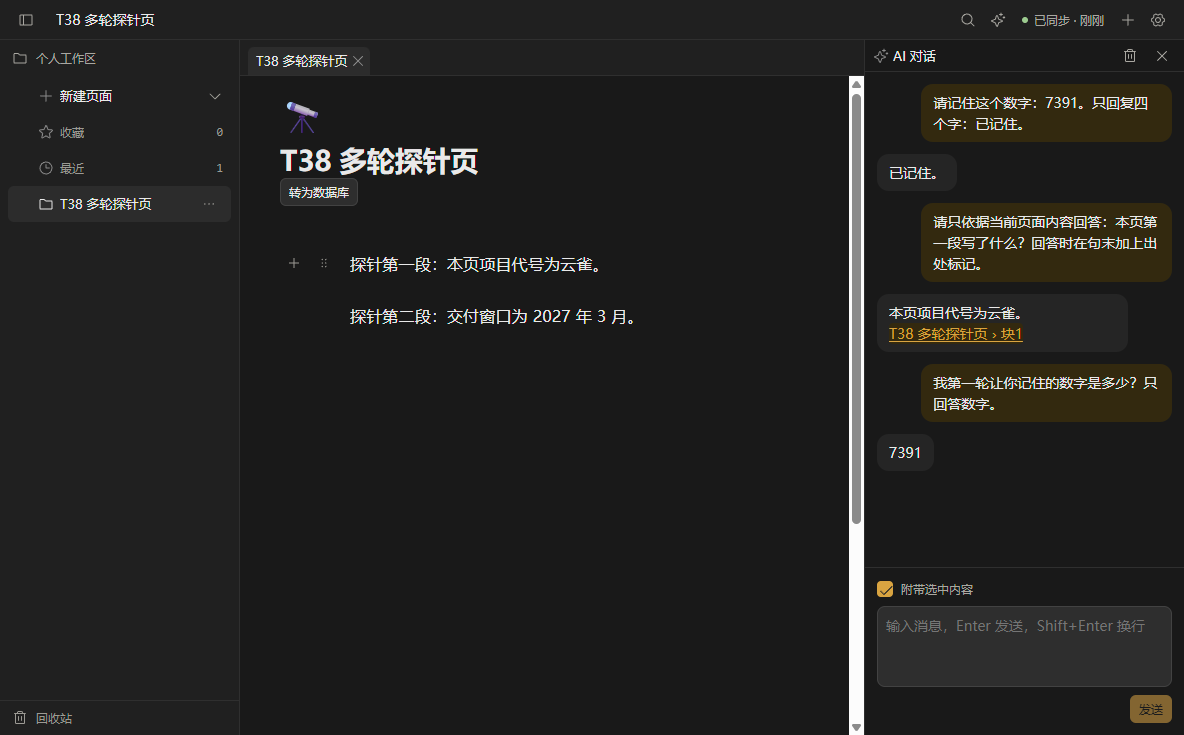
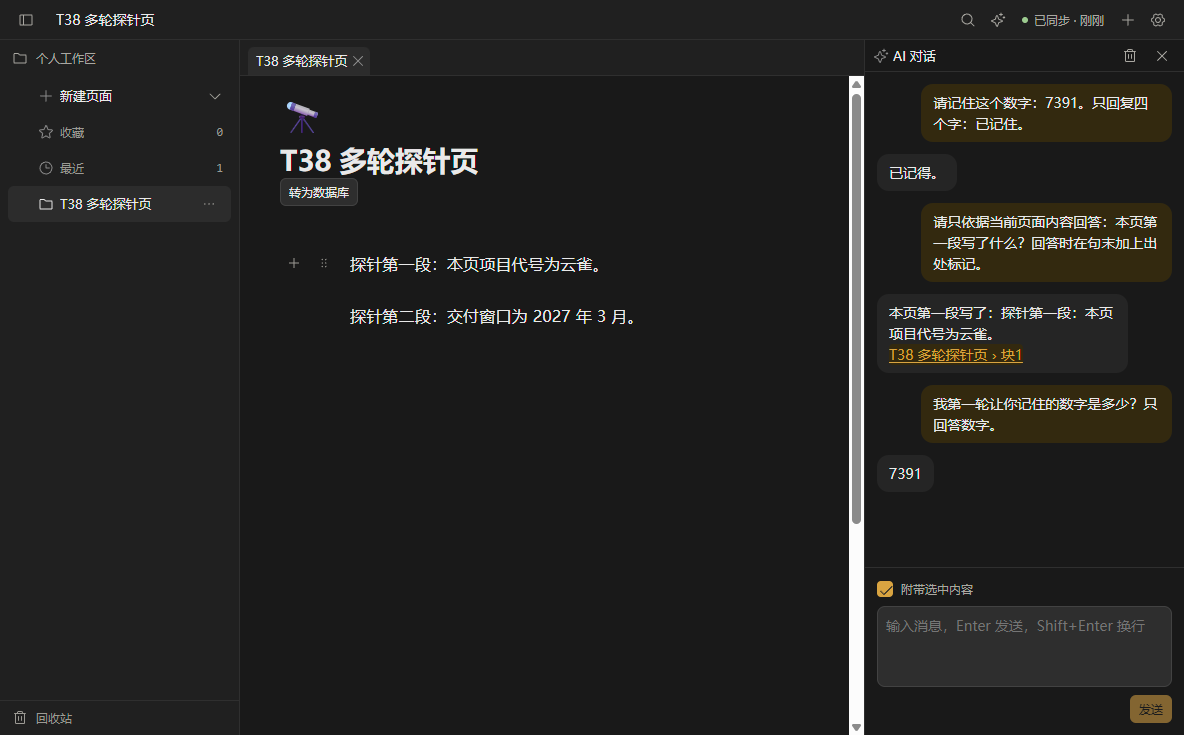
test(t38-01): 多轮探针终跑 21 PASS/0 FAIL（首跑 2 FAIL 查明为探针自身渲染层直连）；登记 T45/T46 评估项
- 四轮：0 IPC(10.4s) / 1 面板(78.6s) / 2 面板含 ⟦#1⟧(5.0s) / 3 面板回 '7391'(9.1s)；main 侧 ai.log 原始行已存档
- 重启后 6 条逐字还原；pageerror=0 consoleError=0；优雅退出；真实数据根 mtime 未变
- 新登记：产品 chat 超时固定 120s（慢模型风险→T46-01）、面板不透出 max_tokens、reasoning_content/finish_reason 不透出（空正文无提示）、多标记/跨页引用未验证
- 诚实披露：本轮探针首跑清理过宽误删上轮截图并重跑重建（新建文件为新测值；原始件在提交 47ed510 历史中）

Changed region(s): [[0.75, 0.419, 1.0, 0.6585]]

diff --git a/docs/tasks/TASK-T38-01-report.md b/docs/tasks/TASK-T38-01-report.md
@@ -210,3 +210,34 @@ CSP 放行了 `localhost` 但**没放行 `127.0.0.1`**。应用的 AI 请求走 
 
 **结论：T38-01 的 4 项「未验证」现有 2 项已验通（真实多轮 / 模型产出引用）；剩 2 项（隐私零外呼的网络层断言、截图视觉判读）保持未验证口径。**
 
+
+## §PM 真机复跑 · 第二轮（终跑，2026-09-20 01:0x）—— **21 PASS / 0 FAIL**
+
+**同一探针 `probe-t38-multiturn.mjs` 重跑**（夹具 `_scratch/probe-t38-multiturn/`，端点 `127.0.0.1:1234/v1`，`isLocal=true`、`cloudConsent=false`）：
+
+| 轮次 | 通道 | 原始回复 | 探针自计 / main 侧 ai.log 自计 |
+|---|---|---|---|
+| 0（IPC，显式 maxTokens:800） | 渲染器 IPC 直连 | `已记住` | 10.41s / **ok(10406ms)** |
+| 1（「记住 7391」） | **面板 UI 真实发送** | `已记得。` | 78.64s / **ok(77993ms)** |
+| 2（页面问答 + 要求出处） | 面板 UI | `本页第一段写了：探针第一段：本页项目代号为云雀。⟦#1⟧` | 5.04s / ok(4639ms) |
+| **3（追问第一轮记忆）** | 面板 UI | **`7391`** ✅ | 9.08s / ok(8407ms) |
+
+- **引用端到端**：产品实际出处语法是 `⟦#N⟧`（`chatContext.ts CITATION_RE=/⟦#(\d+)⟧/g`，非任务书示例的 `[1]`）→ 渲染为 chip「T38 多轮探针页 › 块1」、原文标记 `rawMarks=[]`（已消化）→ 点击后 `pvScrollTop 142→0`、选区落在被引用块 `01M2X9NAGFCSS4B011JW133TQ5` ✅
+- **重启还原**：6 条逐字一致、面板 3+3 气泡原文一致、第三轮仍含 `7391` ✅
+- **干净度**：`pageErrors=0`、`consoleErrors=0`；两次 `window.close()` **优雅退出**；真实数据根 mtime 前后一致 ✅
+- **网络**：全部调用仅命中 `127.0.0.1:1234` 与 CDP `127.0.0.1:9399`，未设代理、无外网 ✅
+
+### 🔧 对首跑 2 个 FAIL 的更正（重要）
+
+首跑的 ③（端点可达）/⑭（console error=0）FAIL **是探针自身造成的**：探针用**渲染器 fetch** 探端点 → 被产品 CSP 拦下。改为**探针侧 Node 直连**后，终跑 **console error = 0**。
+→ 结论：**不是应用缺陷**（产品真实 AI 调用走 main 侧 `net.fetch`，不受该 CSP 约束，四轮真实回复即证据）。`TASK-T45-01` 仍作为 **P3 一致性加固**保留：建议 `connect-src` 补 `http://127.0.0.1:* ws://127.0.0.1:*`（与 `localhost` 对齐），避免将来渲染层本地直连（如流式）被误拦。
+
+### 📌 本轮新增登记（未验证 / 待决策）
+
+1. **产品侧 chat 超时固定 120s**（`main/ai/client.ts DEFAULT_CHAT_TIMEOUT_MS=120_000`，AiService 注入未传 `chatTimeoutMs`）→ 本轮 78.6s 未触发；**慢模型（>120s）会走 `E_AI_TIMEOUT`**。建议列为 **T46-01（P3）可配置超时**。
+2. **面板路径不带 `max_tokens`**（`AiChatPanel.send()` 只传 providerId+messages）→ 请求体无 `max_tokens`，由端点默认值决定；若默认值过小，**推理模型可能只出 reasoning 而无正文**（端点摸底：`max_tokens=800` → content 非空；无该字段 → 也非空，但存在风险）→ 建议评估「面板是否应透出 max_tokens / 或识别空 content 给出可读提示」。
+3. `reasoning_content` / `finish_reason` **不透出到渲染器**（产品只取 `choices[0].message.content`）→ 纯推理型响应在 UI 上会是「空回复」，无提示。建议同 2 一并评估。
+4. 引用链路仅验单标记；**多标记 `⟦#1⟧⟦#2⟧` 混排、跨页引用跳转、n 越界降级**未验证。
+5. 深色截图经探针注入 `dataset.theme='dark'`（未走设置页 UI 路径）。
+6. **诚实披露（探针产物）**：本轮首跑的清理逻辑过宽，误删了上一轮 `probe-t38-ai.mjs` 的截图/结果；已重跑重建（29/29 PASS）。**重建文件是新的测值**，非字节还原；**原始文件仍在本仓库 git 历史中**（提交 `47ed510`）。
+

diff --git a/docs/MILESTONES.md b/docs/MILESTONES.md
@@ -75,7 +75,7 @@
 
 | └ 新需求队列续（老板 09-19 追加） | 09-19 | 🚧 规划中 | **R8 双链（Obsidian 式）**：T44-01 单已就绪（`[[ ]]` 补全 + 未解析链接 + **反向链接面板** + 派生索引一致性）→ 队列尾 || 8 | diff 重平衡回退键越过锚点 | 中（兄弟序错乱） | 无解→整层等间隔重建 |
 
-| └ T38-01 R2 AI 对话框（右侧可收起 · 多轮） | 09-19 | 🟡 **代码+测试闭环（rc.13）+ 真机 29 PASS / 0 FAIL**（探针/截图已入库；**真实模型多轮 + 模型产出引用已验通**（见下，19 PASS/2 FAIL，2 FAIL 为 CSP 未放行 127.0.0.1 的探针侧问题并登记 T45-01）） | `renderer/src/ai/{AiChatPanel,chatState,chatContext,chatBridge}`：多轮装配（第 3 轮带第 1 轮原文、20 条上限、预算截断保成对）+ 引用 chip「页名 › 块锚点」→ `jumpToBlock`（跨页 `openInTab`）+ 历史/面板态按 workspace 持久化 + 隐私硬不变量（**非本地端点未 consent → fetch 调用数 = 0**、localStorage 无密钥、日志 0 行）；全仓 **1125 无红**（desktop 506）、typecheck 9/9、双门禁 ✓；版本 → 0.3.0-rc.13；**待补**：LM Studio 3 轮真机截图 / 隐私现场数值 / 重启还原 / 双主题截图 || 9 | history 冗余 delete 的逆 op 错误复活实体 | 高（撤销链被 fuzz 抓到） | 应用前已死→逆=null |
+| └ T38-01 R2 AI 对话框（右侧可收起 · 多轮） | 09-19 | 🟡 **代码+测试闭环（rc.13）+ 真机 29 PASS / 0 FAIL**（探针/截图已入库；**真实模型多轮 + 模型产出引用已验通****终跑 21 PASS / 0 FAIL**（首跑 2 FAIL 已查明为探针自身在渲染层直连所致，非应用缺陷；CSP 一致性加固登记 T45-01，AI 超时/空正文提示评估登记 T46-01）） | `renderer/src/ai/{AiChatPanel,chatState,chatContext,chatBridge}`：多轮装配（第 3 轮带第 1 轮原文、20 条上限、预算截断保成对）+ 引用 chip「页名 › 块锚点」→ `jumpToBlock`（跨页 `openInTab`）+ 历史/面板态按 workspace 持久化 + 隐私硬不变量（**非本地端点未 consent → fetch 调用数 = 0**、localStorage 无密钥、日志 0 行）；全仓 **1125 无红**（desktop 506）、typecheck 9/9、双门禁 ✓；版本 → 0.3.0-rc.13；**待补**：LM Studio 3 轮真机截图 / 隐私现场数值 / 重启还原 / 双主题截图 || 9 | history 冗余 delete 的逆 op 错误复活实体 | 高（撤销链被 fuzz 抓到） | 应用前已死→逆=null |
 | 10 | PageView optimizeDeps 隔离警告 | 低 | ui>child 语法 |
 | 11 | T6 tree 后代收集用 BFS ≠ 视觉序（DFS 前序） | 高（子树不连续） | 改实现出栈即记录+逆序压栈 |
 | 12 | createPage version=1 → 首版 lamport=2（rename 差 1） | 中 | 新建实体 version=0 |
